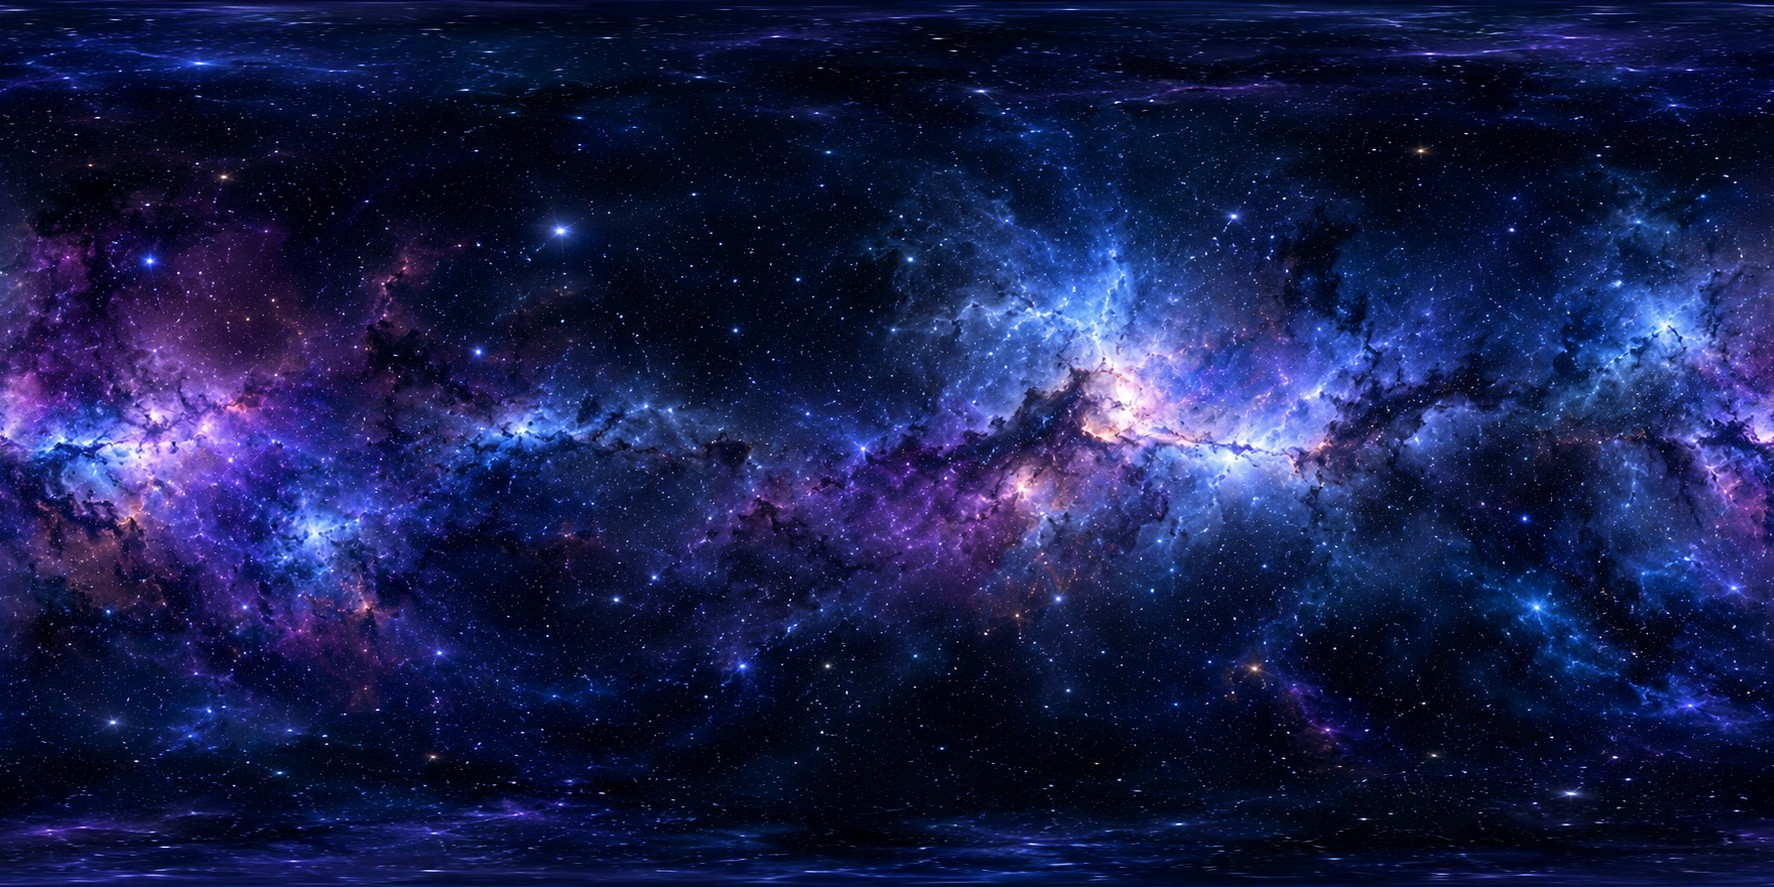
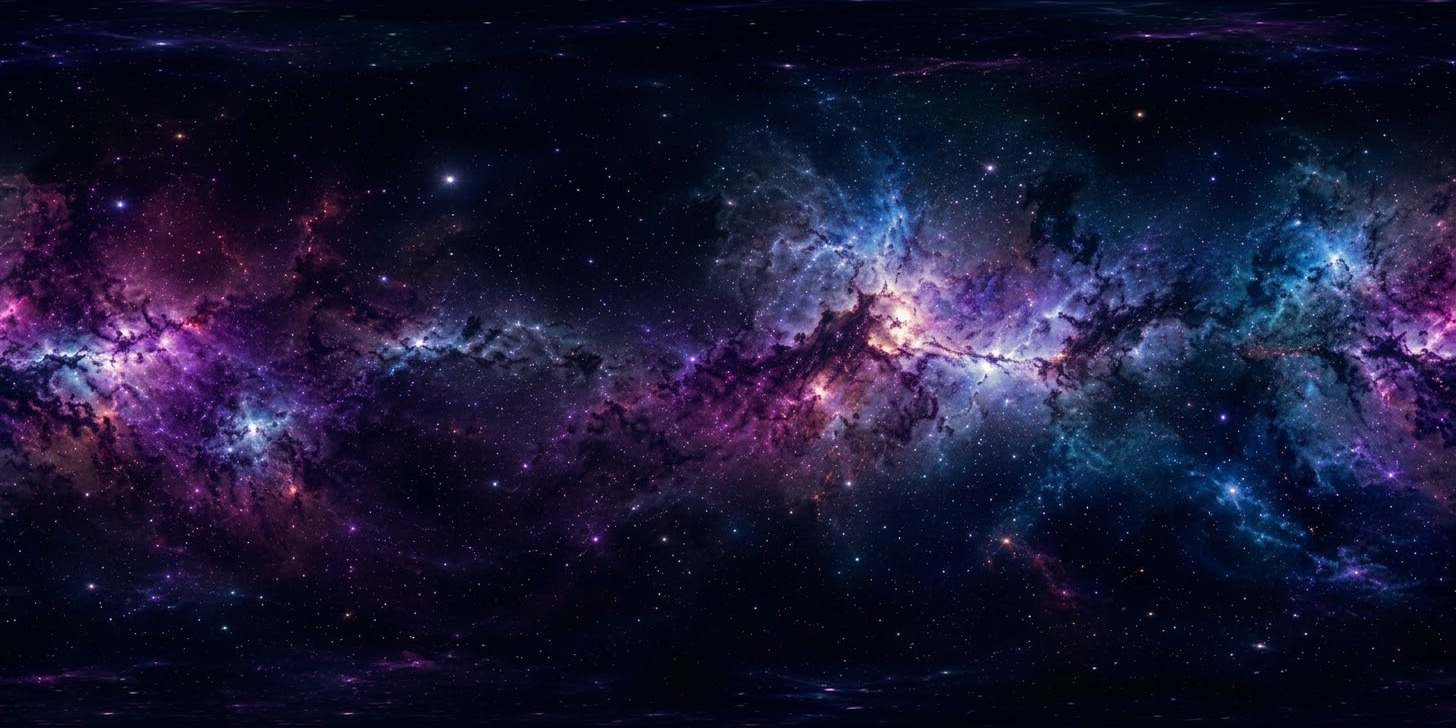
v0.6.11 宇宙の背景を、送ってもらった新しい星雲の絵に差し替える
使う人が選んだ絵 (紫・桃・青緑の星雲、1456x720)。前の絵より暗めで色の幅が広く、
遊んでいる間も敵の赤い印や字が埋もれない (差し替える前に、タイトルと遊んでいる画面を並べて見てもらった)。
大きさは前 (1774x887) より小さいので、少しだけぼやける。

- 左下に描き込まれていた字 (画像を作る道具が指示を字にしたもの) を、すぐ右の同じ高さの帯で埋めて消した
- 左右の端の明るさの差 11.1 (隣り合う列は 4.7) を、縦にならした差を両側 48 列で半分ずつ打ち消して 6.4 に
- ちょうど 2:1 (1456x728) にした

Claude-Session: https://claude.ai/code/session_01WDQTh22rZnnPpnZeWGjk7G

diff --git a/app.js b/app.js
@@ -4,7 +4,7 @@
 (function () {
   'use strict';
 
-  const VERSION = 'v0.6.10';
+  const VERSION = 'v0.6.11';
   const C = window.Core;
   const THREE = window.THREE;
   const K = C.TUNING;

diff --git a/CLAUDE.md b/CLAUDE.md
@@ -20,7 +20,8 @@
   そのあと艦は光の中から艦首 (-x) を先に 3 秒かけて出てきて止まり (はじめ速く、だんだんゆっくり)、5.8 秒で戦闘開始。
   光の面より向こうの部分は描かない (`bossClip`、three.js の切り取り面)。止まる所は知らせの時の自機の前 700m・下 150m
   (`bossSpot`)、戦う場所の外へはみ出さないよう中心寄りに詰める。自機がふつう -z を向いているので、光は画面の右に出る
-- 絵: `space.jpg` (空全体に巻く 2:1 のパノラマ)、`earth.jpg` (地球。黒い背景はシェーダーで抜く)、
+- 絵: `space.jpg` (空全体に巻く 2:1 のパノラマ。送ってもらった紫・桃・青緑の星雲の絵 1456x720。左下に描き込まれていた字を消し、
+  左右の端の明るさの差を両側 48 列でならし、ちょうど 2:1 の 1456x728 にした)、`earth.jpg` (地球。黒い背景はシェーダーで抜く)、
   `hull.jpg` (戦艦の装甲。40m 四方ごとに 1 枚の大きさで貼る)、`gauges.png` (左上のゲージの枠・アイコン・名前。
   目盛りの溝だけ塗り直してあり、目盛り 14 本は `drawGauge` が量に合わせて描く)。
   `title_planet.webp` (タイトルの大きな惑星。送ってもらったマゼンタ地の絵から切り抜いた。体の外の大気・太陽のにじみは
